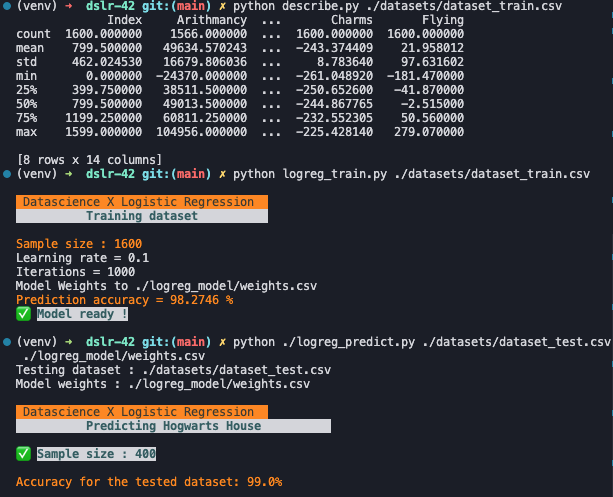
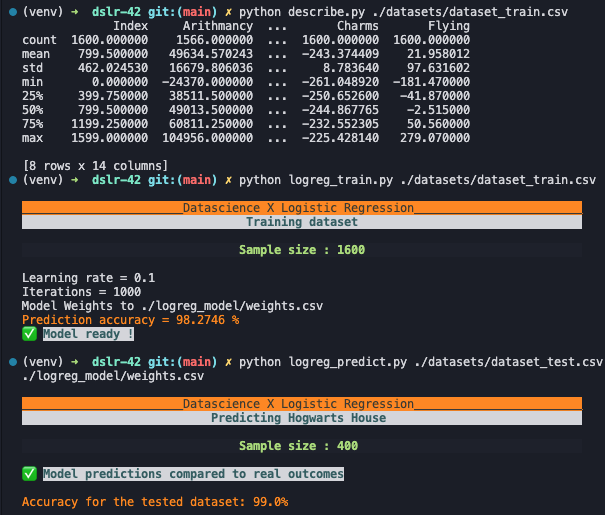
enhanced output to stdout with central padding

diff --git a/dslr/PredictClass.py b/dslr/PredictClass.py
@@ -23,13 +23,13 @@ class PredictFromLogRegModel:
         self.result = self._predict_outputs()
 
     def _init_x_test(self, df: pd.DataFrame) -> np.ndarray:
-        """Extract and transforms data from dataframe
+        """Extract and transform data from dataframe
            and returns an array ready for prediction.
         - keeping only features that are in the model
         - standardization with the z-score method
         - replacing NaNs with 0 (= mean of the feature)
         - adding a column of ones for later dot product
-        with intercept weights
+        with intercept weights.
         """
         df_test = df[self.model_features]
         df_test_std = df_test.agg(lambda feat: logreg.standardize(feat))
@@ -48,6 +48,7 @@ class PredictFromLogRegModel:
         return y_pred
 
     def compare_to_truth(self, truth: pd.DataFrame):
+        po.as_check('Model predictions compared to real outcomes')
         self.result['Real Outcome'] = truth.to_list()
         is_same = np.where(self.result['Predicted Outcome']
                            == self.result['Real Outcome'], 1, 0)

diff --git a/dslr/utils/print_out.py b/dslr/utils/print_out.py
@@ -32,11 +32,14 @@ COL_ASKKM = '\x1b[2;34;43m'
 
 
 def printout_title(level: int, mssg: str):
-    color = {1: COL_BLUWHI, 2: COL_BLUCYA, 3: COL_BLUWHI}
+    """Project name then Title1 printed with
+    colorful central padding : ^80
+    """
+    color = {1: COL_BLUWHI, 2: COL_GRNBLK, 3: COL_BLUWHI}
     if level == 1:
         project_name = 'Datascience X Logistic Regression'
-        print(f'\n{COL_FTLIN} {project_name}  {COL_RESET}')
-    print(f'{color[level]}' + ' ' * 10 + mssg + ' ' * 10 + f'{COL_RESET}\n')
+        print(f'\n{COL_FTLIN}{project_name:_^80}{COL_RESET}')
+    print(f'{color[level]}{mssg: ^80}{COL_RESET}\n')
 
 
 def as_title(mssg: str):
@@ -101,3 +104,12 @@ def input_user_yes(mssg: str, pos_answers=["y", "yes"]) -> bool:
         as_error("\nError : unexpected end of file !")
         return False
     return answer.lower() in pos_answers
+
+
+if __name__ == "__main__":
+    mess = "Hello World !"
+    as_title(mess)
+    as_title2(mess)
+    as_result(mess)
+    as_status(mess)
+    as_check(mess)

diff --git a/logreg_predict.py b/logreg_predict.py
@@ -14,7 +14,10 @@ if __name__ == "__main__":
 
     Arguments (2)
         - filepath to .csv file of dataset to train
-        - weigths file path to .csv file of model weights
+        - model weigths file path to .csv file of model weights
+
+    Example:
+    logreg_predict.py datasets/dataset_test.csv ./logreg_model/weights.csv
 
     Prerequisites :
         - set up the ./dslr/config.py file
@@ -27,7 +30,5 @@ if __name__ == "__main__":
     parser.add_argument('filepath', type=str)
     parser.add_argument('weights', type=str)
     args = parser.parse_args()
-    print(f'Testing dataset : {args.filepath}')
-    print(f'Model weights : {args.weights}')
     os.system(f'./venv/bin/python {script_path}'
               + f' {args.filepath} {args.weights}')

diff --git a/dslr/predict_dataset.py b/dslr/predict_dataset.py
@@ -44,7 +44,7 @@ def test_dataset():
         test_model = PredictFromLogRegModel(df, df_weights)
         df_real_class = set_real_class(df)
         po.as_title(f'Predicting {config.target_label}')
-        po.as_check(f'Sample size : {df.shape[0]}')
+        po.as_title2(f'Sample size : {df.shape[0]}')
         test_model.compare_to_truth(df_real_class)
     except (FileNotFoundError, IsADirectoryError) as e:
         po.as_error("File Error :", e)

diff --git a/dslr/training_dataset.py b/dslr/training_dataset.py
@@ -34,7 +34,7 @@ class TrainingDataset:
         self.model_dir = config.model_dir
         self.dest_file = config.gradient_descent_weights
         po.as_title("Training dataset")
-        po.as_result(f'Sample size : {df.shape[0]}')
+        po.as_title2(f'Sample size : {df.shape[0]}')
         self.train_logistic_regression_model()
 
     def train_logistic_regression_model(self):

diff --git a/README.md b/README.md
@@ -229,7 +229,7 @@ Project directory structure was organized accordingly with the following guideli
 
 [How To Structure a Data Science Project: A Step-by-Step Guide](https://www.kdnuggets.com/2022/05/structure-data-science-project-stepbystep-guide.html)
 
-### virtual environment
+### Virtual environment
 
 A Python [virtual environment](https://docs.python.org/3/library/venv.html) is installed and set up so that this project is self-contained, isolated from the system Python and from other projects virtual environments.
 The virtual environment has its own Python Interpreter and dependencies as third-party libraries that are installed from `requirement.txt` file specifications. It avoids system pollution, dependency conflicts and optimizes reproducibility for a data science project. We used `virtualenv` tool for dependency management and project isolation. Instead of using `bash` script, we chose to exploit `Makefile` capabilities and readability for generic management tasks.
@@ -294,7 +294,7 @@ Test runner chosen : `unittest` included in Python standard library.
 
 `./dslr/tests/testUtilsMath.py` compares `utils.math.py` functions and numpy / pandas equivalent functions
 
-#### describe.exe
+#### pyinstaller modeule
 
 An executable application could be built with
 [pyinstaller](https://realpython.com/pyinstaller-python/)
